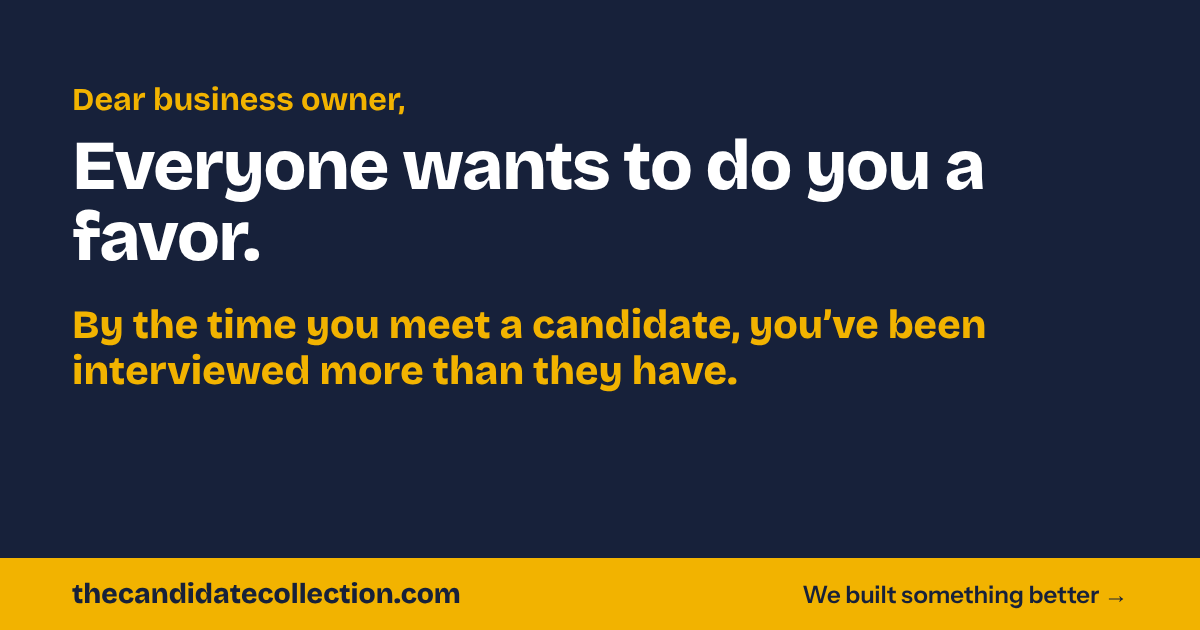
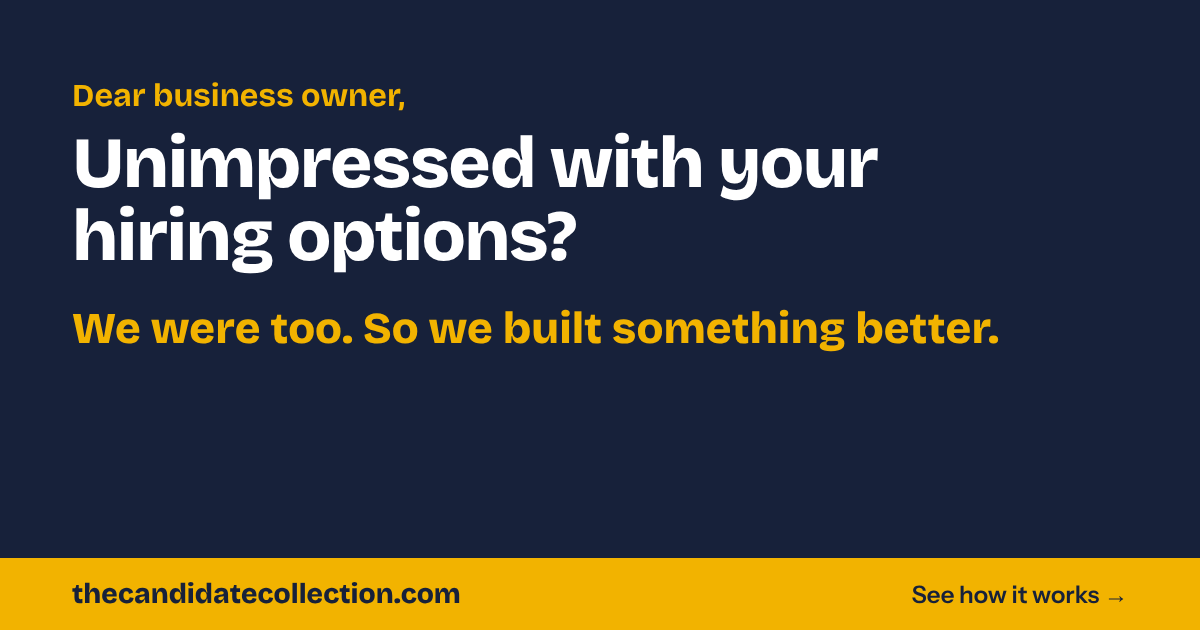
Teaser and Why page built on the real frustrations; favor angle dropped
Claude-Session: https://claude.ai/code/session_01EZeEyNzeQFPN4DFsUvzuMe

diff --git a/src/app/why/page.tsx b/src/app/why/page.tsx
@@ -16,26 +16,29 @@ export default function WhyPage() {
         <div className="wrap">
           <p className={styles.label}>Why we started</p>
           <h1>Built by business owners, for business owners.</h1>
-          <p className={styles.lead}>We&rsquo;re business owners. When it came time to hire, we looked at our options and were unimpressed.</p>
+          <p className={styles.lead}>We&rsquo;re business owners. When it came time to hire, we looked at our options and were unimpressed, and honestly, a little sad.</p>
         </div>
       </section>
 
       <article className={`wrap ${styles.body}`}>
-        <p>
-          <strong>Everyone offered to do us a favor.</strong>
-        </p>
+        <p>Every time we needed to hire, it went the same way.</p>
         <ul className={styles.favors}>
           <li>
-            The job boards did us a favor: <b>hundreds of resumes</b> to sort through on our own time.
+            Before we met a single candidate, we were on <b>calls</b>, in <b>meetings</b>, answering <b>questions</b> and filling
+            out <b>checklists</b>.
           </li>
           <li>
-            The agencies did us a favor: <b>a call</b> to explain what we need, <b>forms</b> to fill out, <b>questions</b> about how
-            we run things, and <b>a fee</b> we&rsquo;d feel for months.
+            We were <b>told how to run the businesses</b> we&rsquo;d spent years building, by people who had known us for an
+            hour.
+          </li>
+          <li>
+            Then came <b>the fee</b>. And after all that, <b>30 to 60 days of wondering</b> whether we had hired the right person.
           </li>
         </ul>
-        <p className={styles.punch}>By the time we met a single candidate, we&rsquo;d been interviewed more than they had.</p>
+        <p className={styles.punch}>We were the ones being vetted. The candidates came second.</p>
         <p>
-          We didn&rsquo;t need a favor. <strong>We needed good people, and the freedom to choose.</strong>
+          We know our businesses. We know what we need and who we need.{" "}
+          <strong>We just wanted good people, and the freedom to choose.</strong>
         </p>
 
         <section className={styles.how}>

diff --git a/src/app/layout.tsx b/src/app/layout.tsx
@@ -19,9 +19,9 @@ export const metadata: Metadata = {
   openGraph: {
     type: "website",
     siteName: brandName(),
-    title: "Dear business owner, everyone wants to do you a favor.",
-    description: "By the time you meet a candidate, you’ve been interviewed more than they have. We’re business owners too. We built something better.",
-    images: [{ url: "/share/og.png", width: 1200, height: 630, alt: "Dear business owner, everyone wants to do you a favor." }],
+    title: "Dear business owner, unimpressed with your hiring options?",
+    description: "We were too. We’re business owners, so we built something better: browse candidates who were met and coached, and pick the person who fits.",
+    images: [{ url: "/share/og.png", width: 1200, height: 630, alt: "Dear business owner, unimpressed with your hiring options?" }],
   },
   twitter: { card: "summary_large_image", images: ["/share/og.png"] },
 };

diff --git a/src/lib/shareKit.ts b/src/lib/shareKit.ts
@@ -20,7 +20,7 @@ export function shareLink(ref?: string | null) {
 }
 
 export function ownerMessage(link: string) {
-  return `Dear business owner,\n\nEveryone wants to do you a favor when you hire. Hundreds of resumes. A call to explain what you need. Questions about how you run your business. A fee you'll feel for months.\n\nBy the time you meet a candidate, you've been interviewed more than they have.\n\nWe're business owners too. We built something better:\n${link}`;
+  return `Dear business owner,\n\nUnimpressed with your hiring options? Calls, meetings and checklists before you meet a single candidate. Being told how to run your business. Fees that sting. Then 60 days of wondering if you hired the right person.\n\nWe're business owners. We were too. So we built something better:\n${link}`;
 }
 
 // A new owner who came through someone's link: remember who sent them.

diff --git a/src/components/ShareTools.tsx b/src/components/ShareTools.tsx
@@ -88,7 +88,7 @@ export function KitView({ message, link, image }: { message: string; link: strin
   return (
     <div style={{ display: "grid", gridTemplateColumns: "repeat(auto-fit, minmax(280px, 1fr))", gap: 28, alignItems: "start" }}>
       {/* eslint-disable-next-line @next/next/no-img-element */}
-      <img src={image} alt="Dear business owner, everyone wants to do you a favor." style={{ width: "100%", maxWidth: 460, borderRadius: 16, boxShadow: "0 12px 30px rgba(23,33,58,.15)" }} />
+      <img src={image} alt="Dear business owner, unimpressed with your hiring options?" style={{ width: "100%", maxWidth: 460, borderRadius: 16, boxShadow: "0 12px 30px rgba(23,33,58,.15)" }} />
       <div style={{ display: "grid", gap: 16, minWidth: 0 }}>
         <div>
           <p className="small muted" style={{ margin: "0 0 6px", fontWeight: 600 }}>
